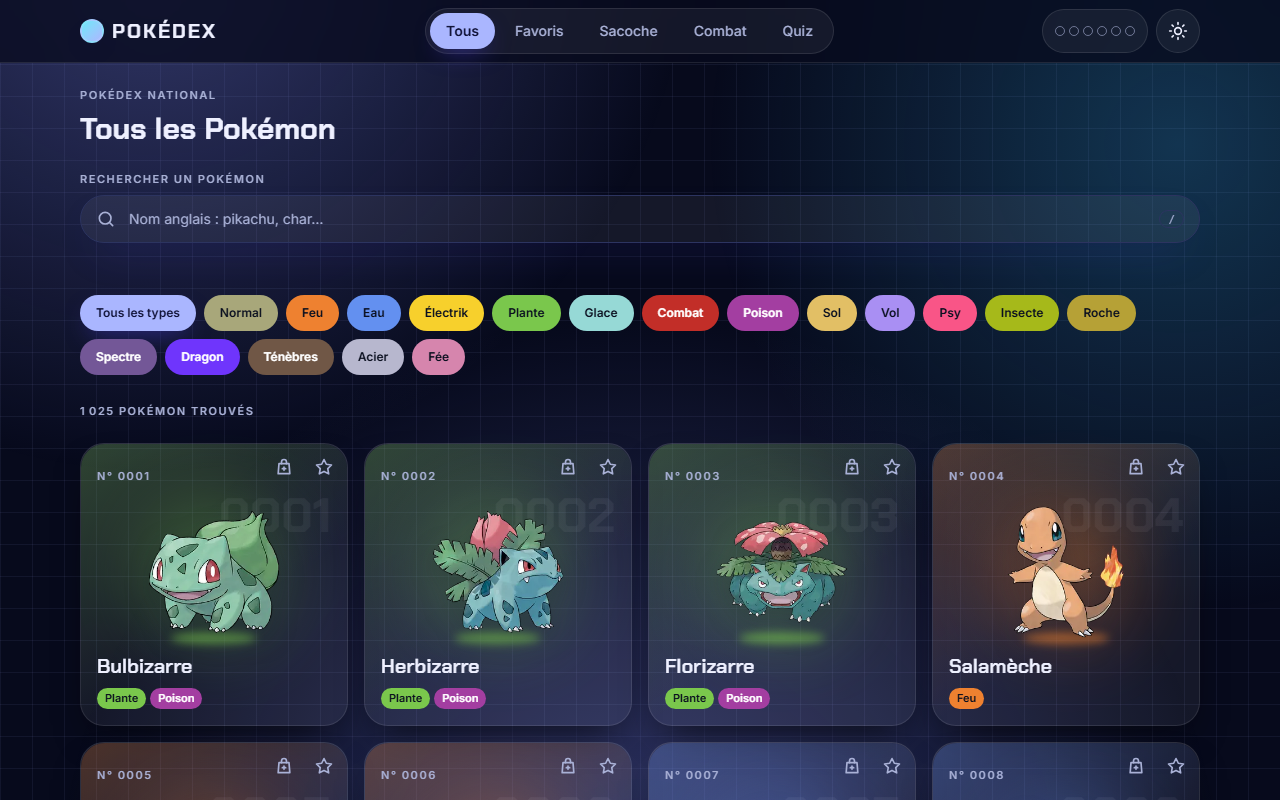
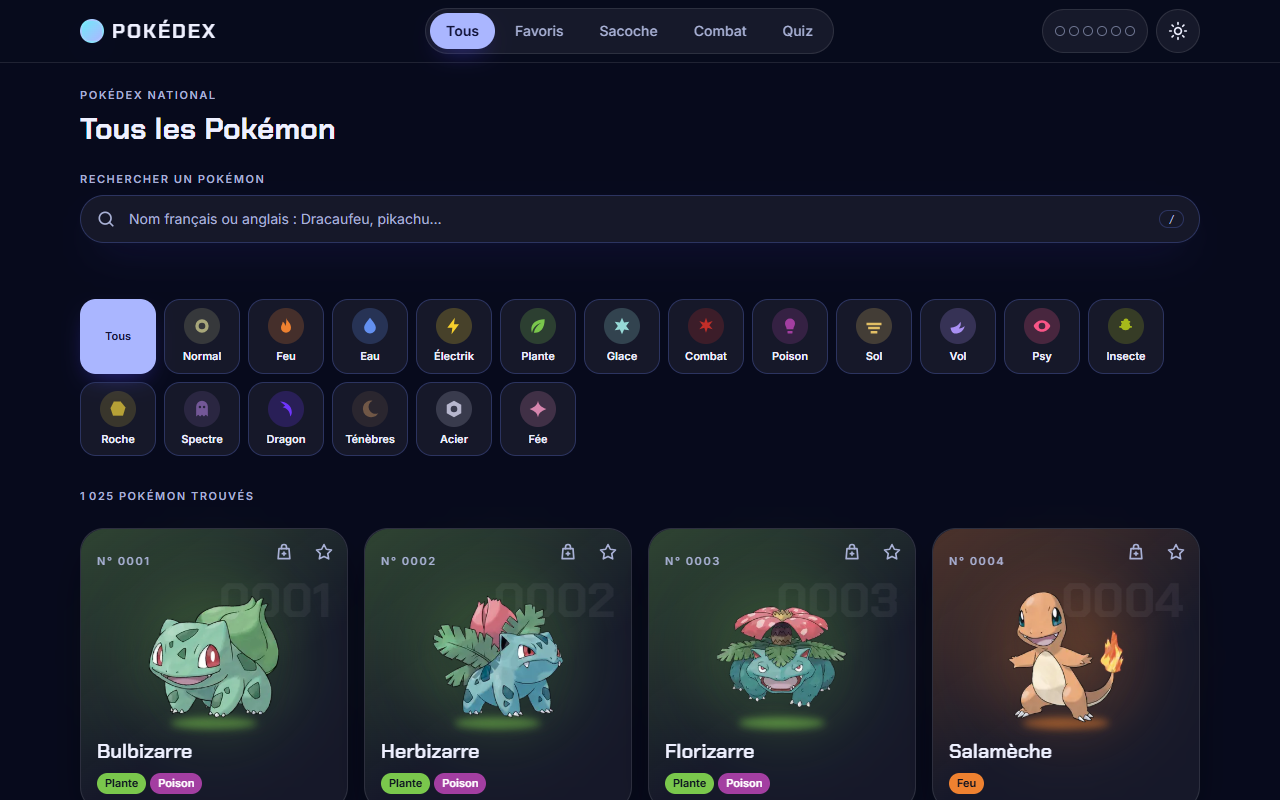
docs: README, captures et CLAUDE.md à jour
- README : recherche en français, tuiles de type et effets, carte holographique 3D, effets
  d'attaque sur canvas, stack, principes, scores Lighthouse remesurés, 30 tests, crédits
- Captures refaites sur le site en ligne (six images)
- CLAUDE.md : section « Ajouts après les phases »

diff --git a/README.md b/README.md
@@ -10,24 +10,31 @@ par tour et quiz. Projet de fin de cours.
 
 | Thème sombre | Thème clair |
 | --- | --- |
-| ![Liste des Pokémon, thème sombre](docs/captures/accueil-sombre.png) | ![Liste des Pokémon, thème clair](docs/captures/accueil-clair.png) |
-| ![Fiche d'Ectoplasma et ses attaques, thème sombre](docs/captures/attaques-sombre.png) | ![Fiche de Dracaufeu, thème clair](docs/captures/fiche-clair.png) |
+| ![Liste des Pokémon et filtre par type, thème sombre](docs/captures/accueil-sombre.png) | ![Liste des Pokémon et filtre par type, thème clair](docs/captures/accueil-clair.png) |
+| ![Fiche d'Ectoplasma avec sa carte holographique, thème sombre](docs/captures/fiche-sombre.png) | ![Fiche de Dracaufeu avec sa carte holographique, thème clair](docs/captures/fiche-clair.png) |
+| ![Effet joué à l'écran quand on choisit le type Électrik](docs/captures/effet-type.png) | ![Attaques apprises par niveau d'Ectoplasma](docs/captures/attaques-sombre.png) |
 
 ## Fonctionnalités
 
 - **Liste des 1 025 Pokémon** en grille paginée (24 par page), avec noms français.
-- **Recherche** avec debounce, **filtre par type** et **pagination** entièrement pilotés par l'adresse
-  (`?q=&type=&page=`), validés côté serveur.
-- **Fiche détaillée** : illustration officielle, types, taille, poids, six statistiques, sprite animé (face / dos),
-  cri, chaîne d'évolution cliquable et **attaques apprises par niveau** (type, catégorie, puissance, précision, PP,
-  description).
+- **Recherche par nom français ou anglais**, même incomplet, sans tenir compte des accents ni des majuscules
+  (« evoli » trouve Évoli, « char » trouve Charizard). Recherche, **filtre par type** et **pagination** sont
+  entièrement pilotés par l'adresse (`?q=&type=&page=`) et validés côté serveur.
+- **Filtre par type en tuiles** : un symbole original par type. Le type choisi est marqué actif immédiatement, sa
+  liste est préchargée au survol, et un **effet propre à chaque type** traverse l'écran (pluie pour Eau, braises
+  pour Feu, éclairs pour Électrik, flocons pour Glace…), entièrement en CSS.
+- **Fiche détaillée** : **carte holographique en 3D** que l'on fait tourner à 360° (reflet qui suit le mouvement,
+  dos original), types, taille, poids, six statistiques, sprite animé (face / dos), cri, chaîne d'évolution
+  cliquable et **attaques apprises par niveau** (type, catégorie, puissance, précision, PP, description).
 - **Favoris** et **sacoche** conservés dans le navigateur ; la sacoche est une « arène d'équipe » : 6 socles animés,
   détail du membre sélectionné, surnoms, 4 attaques par Pokémon, ordre modifiable par glisser-déposer ou au clavier.
 - **Mode combat** : ta sacoche contre une équipe tirée au hasard, au niveau 50 — efficacité des 18 types, dégâts,
-  précision, ordre selon la vitesse, IA adverse, effets d'attaque animés par type, journal de combat accessible.
+  précision, ordre selon la vitesse, IA adverse, journal de combat accessible, et **effets d'attaque dessinés sur
+  un canvas** (projectile, trajectoire, impact) choisis selon le type, la catégorie et la puissance de l'attaque.
 - **Quiz « Qui est ce Pokémon ? »** : une silhouette, quatre propositions, révélation animée.
-- **Direction artistique « verre holographique »** : panneaux translucides, une teinte par Pokémon (couleur de son
-  type principal), soignée en clair comme en sombre. Le thème suit le système et le choix est mémorisé.
+- **Direction artistique « verre holographique »** : panneaux translucides sur fond uni, une teinte par Pokémon
+  (couleur de son type principal), soignée en clair comme en sombre. Le thème suit le système et le choix est
+  mémorisé.
 - **Animations** : apparition en cascade, inclinaison 3D des cartes, transition partagée de l'illustration entre la
   grille et la fiche (View Transitions) — uniquement `transform` et `opacity`, et réduites à de simples fondus avec
   `prefers-reduced-motion`. Aucun son automatique.
@@ -44,7 +51,8 @@ par tour et quiz. Projet de fin de cours.
 | État client | Zustand (`persist` + réhydratation après l'hydratation React) |
 | Thème | next-themes |
 | Animations | motion (`motion/react`) et CSS, `prefers-reduced-motion` respecté |
-| Tests | vitest (fonctions pures de `lib/combat.ts`) |
+| 3D | three.js, pour la carte holographique de la fiche (chargée après la page) |
+| Tests | vitest (fonctions pures de `lib/combat.ts` et de `lib/labo/effets2d.ts`) |
 | Données | PokéAPI v2 (lecture seule, sans clé) |
 | Hébergement | Vercel |
 
@@ -54,21 +62,28 @@ par tour et quiz. Projet de fin de cours.
 app/          Routes : liste, fiche /pokemon/[nom], favoris, sacoche, combat, quiz, à propos, routes /api
 components/   Composants d'interface — serveur par défaut, client seulement pour l'interactivité
 hooks/        Hooks réutilisables (debounce, raccourci clavier, chargement client, cri…)
-lib/          Accès à la PokéAPI, conversion des données, validation de l'adresse, moteur de combat
+lib/          Accès à la PokéAPI, conversion des données, validation de l'adresse, moteur de combat,
+              symboles et recettes d'effet des types, dessin de la carte 3D, effets d'attaque (lib/labo)
 stores/       Stores Zustand (favoris, sacoche) avec leurs règles métier
 ```
 
 Quelques principes suivis dans le code :
 
 - **Composants serveur par défaut** ; `"use client"` uniquement sur de petites feuilles interactives.
-- **Données mises en cache côté serveur** (`"use cache"` + `cacheLife("days")`) ; les 151 premières fiches sont
-  générées au build avec `generateStaticParams`.
+- **Données mises en cache côté serveur** (`"use cache"` + `cacheLife("days")`, et `"use cache: remote"` pour le
+  cache partagé de l'hébergeur) ; les 151 premières fiches sont générées au build avec `generateStaticParams`.
+- **Appels à l'API tolérants aux pannes passagères** : un appel en échec est retenté jusqu'à trois fois, pour
+  qu'une seule erreur sur les 24 appels d'une page ne fasse pas tomber toute la page.
 - **Tout ce qui dépend de la requête** (`params`, `searchParams`) est lu sous `<Suspense>`.
 - **L'état partageable vit dans l'adresse** : recherche, type, page, onglet de la fiche.
+- **Réaction immédiate au clic** : le filtre affiche tout de suite le type choisi (`useOptimistic`,
+  `useTransition`) pendant que le serveur prépare la liste, préchargée dès le survol (`<Link prefetch>`).
 - **Les données restent en anglais** (`fire`) et ne sont traduites qu'à l'affichage.
 - **Les règles métier vivent dans les stores** (6 Pokémon maximum, pas de doublon).
 - **Le moteur de combat est fait de fonctions pures** : le hasard leur est passé en argument, ce qui les rend
   testables.
+- **Le plus lourd est chargé le plus tard** : three.js n'est téléchargé qu'une fois la fiche affichée et le
+  navigateur inoccupé ; l'illustration classique sert d'attente et de repli sans 3D.
 
 ## Qualité
 
@@ -76,11 +91,10 @@ Audit Lighthouse (mobile) sur le site déployé :
 
 | Page | Performance | Accessibilité | Bonnes pratiques | SEO |
 | --- | --- | --- | --- | --- |
-| Accueil | 90 | 100 | 100 | 100 |
-| Fiche | 98 | 100 | 100 | 100 |
-| Sacoche, combat, quiz, favoris | — | 100 | 100 | 100 |
+| Accueil | 100 | 100 | 100 | 100 |
+| Fiche (avec la carte 3D) | 89 | 100 | 100 | 100 |
 
-Les fonctions du combat sont couvertes par 23 tests unitaires (`npm test`).
+30 tests unitaires couvrent le moteur de combat et le choix des effets d'attaque (`npm test`).
 
 ## Lancer le projet
 
@@ -90,6 +104,9 @@ Prérequis : Node.js 20 ou plus.
 npm install
 npm run dev      # http://localhost:3000
 ```
+
+Le mode développement recompile tout à la volée : il est nettement plus lent que le site réel. Pour juger la
+vitesse, lancer plutôt `npm run build` puis `npm start`.
 
 Autres commandes :
 
@@ -120,5 +137,8 @@ purement statique.
 ## Crédits et mentions
 
 - Données, illustrations, sprites et cris : [PokéAPI](https://pokeapi.co). Sprites animés issus de Pokémon Showdown.
+- Noms français pour la recherche : fichier de données du dépôt [PokeAPI/pokeapi](https://github.com/PokeAPI/pokeapi).
+- Les symboles des types, le décor et le dos de la carte holographique sont des dessins originaux réalisés pour
+  ce projet.
 - Pokémon est une marque de Nintendo / Game Freak / The Pokémon Company. Projet étudiant non commercial, sans
   affiliation avec ces sociétés.

diff --git a/CLAUDE.md b/CLAUDE.md
@@ -103,6 +103,23 @@ Règles :
 (puis déploiement Vercel) · 6 Direction artistique · 7 Animations · 8 Vue Équipe · 9 Attaques · 10 Combat · 11 Finitions.
 Voir `git log` pour savoir quelle phase est terminée. Les 11 phases sont faites ; la suite = retouches à la demande.
 
+## Ajouts après les phases (retouches)
+- Fiche : `VitrineFiche` remplace l'illustration par `Carte3D` (three.js, importé dans un useEffect, démarré une fois
+  la page chargée et le navigateur inoccupé). L'illustration reste l'affichage d'attente et le repli sans WebGL.
+  `lib/carte3d.ts` dessine les deux faces dans des canvas 2D. `PanneauCarte3D` (carte au clic) est conservé, inutilisé.
+- Accueil : `FiltreTypes` (client) = tuiles avec symbole (`lib/glyphes.ts`), type actif optimiste (`useOptimistic` +
+  `useTransition`), `<Link prefetch>` seulement au survol/focus, clics en rafale regroupés. `EffetType` joue la
+  recette du type (mouvement, fond, anneaux) en CSS seul ; classes `effet-*` dans globals.css, toujours via une table
+  de correspondance (jamais `effet-${x}`).
+- Recherche : français ou anglais, sans accents (`normaliser` / `filtrerNoms` dans lib/recherche.ts). Les noms
+  français viennent du CSV du dépôt PokeAPI/pokeapi (`recupererNomsFrancais`), repli sur l'anglais s'il est indisponible.
+- lib/pokeapi.ts : `lire` retente 3 fois les échecs passagers (pas de file d'attente partagée). `"use cache: remote"`
+  sur recupererPokemon, recupererTousLesNoms, recupererNomsDuType, recupererNomsFrancais ; recupererListe reste en
+  `"use cache"` pour être préchargeable.
+- Combat : effets d'attaque sur canvas (`lib/labo/moteur2d.ts`, recettes dans `lib/labo/effets2d.ts`, testées).
+- Grille : cascade d'apparition plafonnée aux 6 premières cartes. Images : `minimumCacheTTL` de 31 jours.
+- Mesurer la vitesse : toujours `npm run build` + `npm start` (le mode dev est 5 à 10 fois plus lent).
+
 ## Vérifier le rendu sans navigateur interactif
 - Captures : Chrome sans fenêtre sur le site Vercel
   (`chrome.exe --headless=new --window-size=1280,800 --screenshot=... URL` ; thème clair : `--blink-settings=preferredColorScheme=1`).
